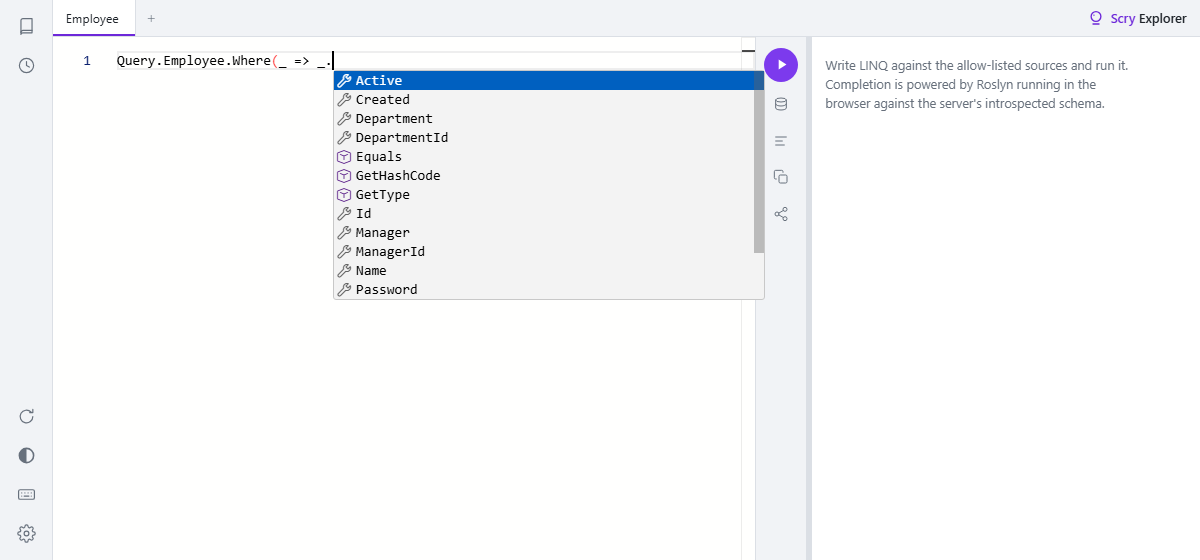
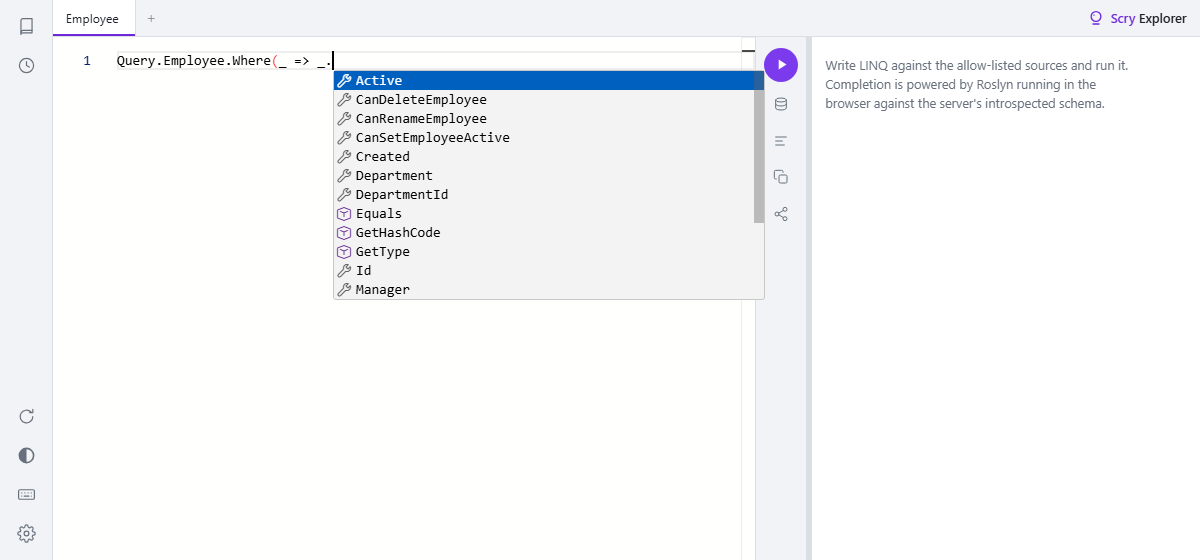
Pin the suggest widget's scrollbar and refresh the IntelliSense baseline
Monaco hides the suggest widget's scrollbar on a timer after the list
opens, so a slow runner captured it hidden and a fast one visible
(CI run 17). Pin it visible in SettleScrollbarsAsync.

The baseline also predated the sample's Employee commands, so it lacked
the CanDeleteEmployee, CanRenameEmployee and CanSetEmployeeActive
completions the explorer has shown since; it only passed by staying
just inside the SSIM threshold.

Changed region(s): [[0.2775, 0.1518, 0.4317, 0.4857], [0.6167, 0.3946, 0.6475, 0.4554], [0.3083, 0.5161, 0.3392, 0.5464]]

diff --git a/samples/Sample.Tests/UiScreenshotTests.cs b/samples/Sample.Tests/UiScreenshotTests.cs
@@ -393,7 +393,9 @@ public class UiScreenshotTests :
     // transition on the compositor, so polling getComputedStyle reads it as finished while the painted
     // pixels are still moving — three runs of the same capture read that column as three different
     // greys. Dropping the transition snaps every scrollbar straight to the state it was heading for, so
-    // the capture is of the settled UI whenever the shutter falls.
+    // the capture is of the settled UI whenever the shutter falls. The suggest widget's scrollbar is
+    // also pinned visible: Monaco hides it on a timer after the list opens, so a capture that takes
+    // longer than that on a slow runner would otherwise be of a list with no scrollbar at all.
     static Task SettleScrollbarsAsync(IPage page) =>
         page.AddStyleTagAsync(
             new()
@@ -403,6 +405,9 @@ public class UiScreenshotTests :
                     .monaco-scrollable-element > .scrollbar,
                     .monaco-scrollable-element > .scrollbar > .slider {
                         transition: none !important;
+                    }
+                    .suggest-widget .monaco-scrollable-element > .scrollbar.invisible {
+                        opacity: 1 !important;
                     }
                     """
             });
